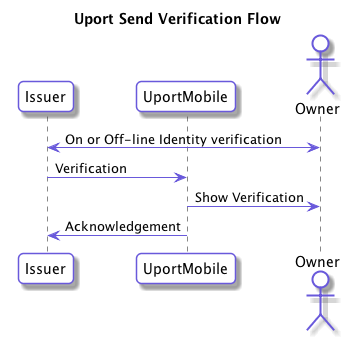
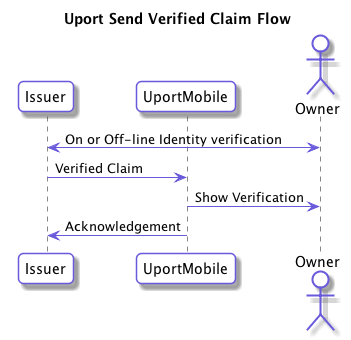
Simplify Verified Claim Request flow
The previous version left a lot of unspecified questions and was too verbose.

Also updated wording to use "Verified Claim" throughout instead of Attestation and Verification.

Changed region(s): [[0.1709, 0.0294, 0.8262, 0.0882], [0.2564, 0.4706, 0.3989, 0.5294]]

diff --git a/messages/verificationreq.md b/messages/verificationreq.md
@@ -1,0 +1,49 @@
+# Verified Claim Request
+
+The Verified Claim Request is created by a client app and sent to a user's mobile app during the [Verified Claim Request Flow](../flows/verificationreq.md).
+
+
+#### Attributes
+
+The JWT shares these attributes with the [Share Request](sharereq.md): `iss`, `iat`, `exp`. The claim in the `unsignedClaim` object should follow the [claims best practices](./verification.md#claims-best-practices).
+
+The following additional attributes of the JWT are supported:
+
+Name | Description | Required
+---- | ----------- | --------
+`type` | MUST have the value `verReq` | yes
+`unsignedClaim` | An unsigned claim that the user is requested to sign, in the form of a JSON object that form part of the payload of the attestation. A mandatory field is the `claim` itself, and a common field would be `sub` for the subject. | yes
+`aud` | The DID of the identity you want the user to sign the claims with | no
+`sub` | The DID of the identity you want the user to sign the claims about | no
+`callback` | Callback URL for returning the response to a request (may be deprecated in future) | no
+`rexp` | Requested expiry time in seconds | no
+
+
+Example Verified Claim request:
+
+```js
+{
+  "type":"verReq",
+  "iss":"did:uport:REQUESTING_APP_OR_USER",
+  "aud":"did:uport:VERIFYING_APP_OR_USER",
+  "sub":"did:uport:SUBJECT_OF_VERIFIED_CLAIM",
+  "unsignedClaim": {
+    "name":"Bob Smith"
+  },
+  "callback":"https://example.com",
+  "rexp": 123456789
+}
+```
+
+The verifying user views the requested data in the UX and signs the corresponding [Verified Claim](./verification.md). The following is an example of the response:
+
+```js
+{
+  "iss":"did:uport:VERIFYING_APP_OR_USER",
+  "sub":"did:uport:SUBJECT_OF_VERIFIED_CLAIM",
+  "claim": {
+    "name":"Bob Smith"
+  },
+  "exp": 123456789
+}
+```

diff --git a/flows/verification.md b/flows/verification.md
@@ -1,14 +1,14 @@
-# Send Verification Flow
+# Send Verified Claim Flow
 
 A client application can verify information about a user
 
 The following shows the basic flow:
 
-![Verification Flow](verification.png)
+![Verified Claim Flow](verification.png)
 
 A more complete example of using this with a simple Identify Verification service can be seen here. In this case the user starts with a [Selective Disclosure Flow](selectivedisclosure.md) to an issuer. An offline process could be in place where the user now shows their passport to the Issuer after which they will receive an identity verification in their mobile app.
 
-![Example Identity Verification Flow](identityverification.png)
+![Example Identity Verified Claim Flow](identityverification.png)
 
 ## Endpoint
 
@@ -19,7 +19,7 @@ The request should be sent to one of the following URLs:
 
 ## Send Verifications
 
-Create one or more [Verification's](../messages/verification.md) and send it to the uPort mobile app in the `attestations` query parameter. Multiple verifications can be included by comma separating them.
+Create one or more [Verified Claims](../messages/verification.md) and send it to the uPort mobile app in the `attestations` query parameter. Multiple verifications can be included by comma separating them.
 
 Example:
 

diff --git a/flows/verificiationreq.md b/flows/verificiationreq.md
@@ -1,10 +1,10 @@
-# Attestation Flow
+# Verified Claim Request Flow
 
-A client application can request that the user sign an attestation.
+A client application can request that the user sign a Verified Claim.
 
 The following shows the basic flow:
 
-![Attestation Flow](attestation.png)
+![Verified Request Flow](verificationreq.png)
 
 ## Endpoint
 
@@ -15,15 +15,12 @@ The request should be formatted using one of the following URLs:
 
 ## Send Request
 
-Create a valid signed or unsigned [Attestation Request](../messages/attreq.md) and send it to the uPort mobile app.
+Create a valid signed [Verified Claim Request](../messages/verificationreq.md) and send it to the uPort mobile app.
 
 Signed example:
 
-`me.uport:me?requestToken=eyJ0eXAiOiJKV1QiLCJhbGciOiJFUzI1NksifQ.eyJp...`
+`me.uport:req?m=eyJ0eXAiOiJKV1QiLCJhbGciOiJFUzI1NksifQ.eyJp...`
 
-Unsigned example:
-
-`me.uport:attReq?unsignedClaims=[...]&callback_url=https://mysite.com/callback&label=My%20Site`
 
 ## Client Callback
 
@@ -35,7 +32,7 @@ Responses are param appended to a URL fragment. If the callback requires the res
 
 param          | Description
 -------------- | -----------
-`access_token` | [Attestation Response](../messages/attresp.md)
+`verification` | [Verified Claim](../messages/verification.md)
 
 ### Errors
 

diff --git a/messages/verification.md b/messages/verification.md
@@ -1,8 +1,8 @@
-# Verification
+# Verified Claim
 
-A Verification is a statement issued by a third party verifying claims about an identity [Verification Flow](../flows/verification.md).
+A Verified Claim is a statement issued by a third party verifying claims about an identity [Verified Claim Flow](../flows/verification.md).
 
-Verifications are always signed.
+Verified Claims are always signed.
 
 ## Attributes
 
@@ -20,7 +20,7 @@ Name | Description | Required
 
 ### Use atomic claims
 
-In most cases we recommend having a single claim per verification. This allows your users to share only the specific claims they want.
+In most cases we recommend having a single claim per Verified Claim. This allows your users to share only the specific claims they want.
 
 ```json
 {"name":"Carol Crypteau"}

diff --git a/messages/index.md b/messages/index.md
@@ -62,5 +62,6 @@ There are several standard message types that the uPort mobile app knows how to 
 
 - **[Selective Disclosure Request](sharereq.md)** for asking private data from a user
 - **[Selective Disclosure Response](shareresp.md)** signed by the app as a response to a Selective Disclosure Request
-- **[Verification](verification.md)** signed claim by one party about another party
+- **[Verified Claim](verification.md)** - signed claim by one party about another party
+- **[Verified Claim Request](verificationreq.md)** - Request a signed claim by one party about another party
 - **[Private Chain Provisioning Message](privatechain.md)** for provisioning an identity on a private Ethereum chain

diff --git a/flows/index.md b/flows/index.md
@@ -7,7 +7,8 @@ A request will typically be signed by a client app and sent to mobile app using 
 ## Specific Application flows
 
 - [Selective Disclosure Flow](selectivedisclosure.md)
-- [Send Verification Flow](verification.md)
+- [Send Verification Claim Flow](verification.md)
+- [Request Verification Claim Flow](verificationreq.md)
 - [Ethereum Transaction Request Flow](tx.md)
 - [Private Chain Provisioning Flow](privatechain.md)
 
